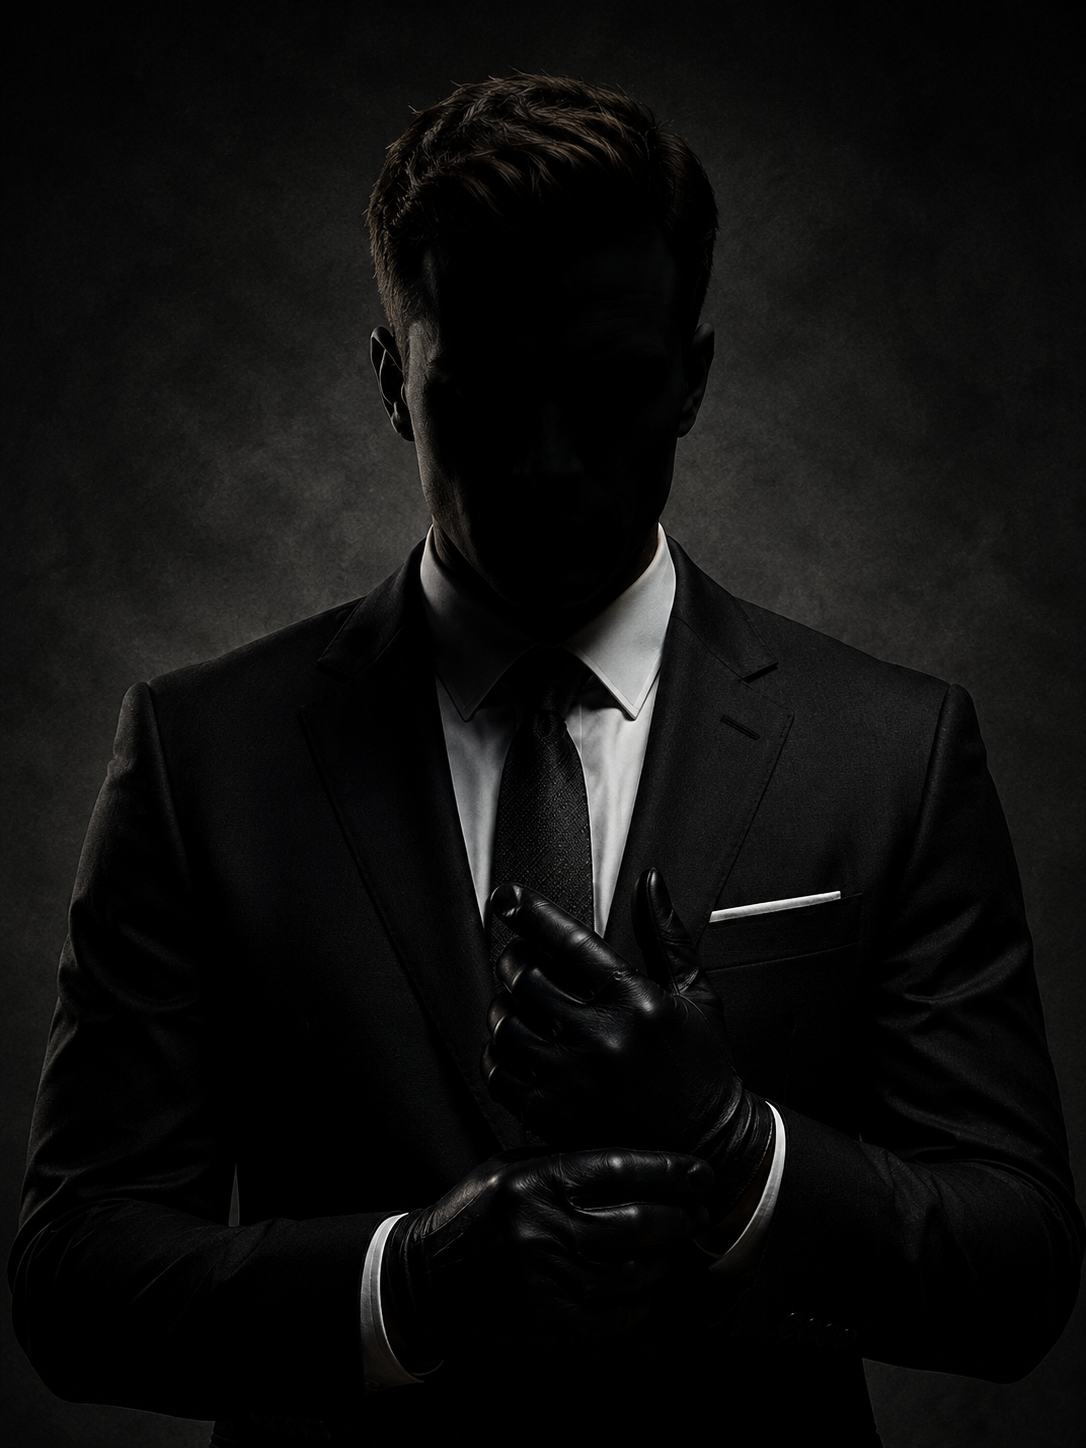
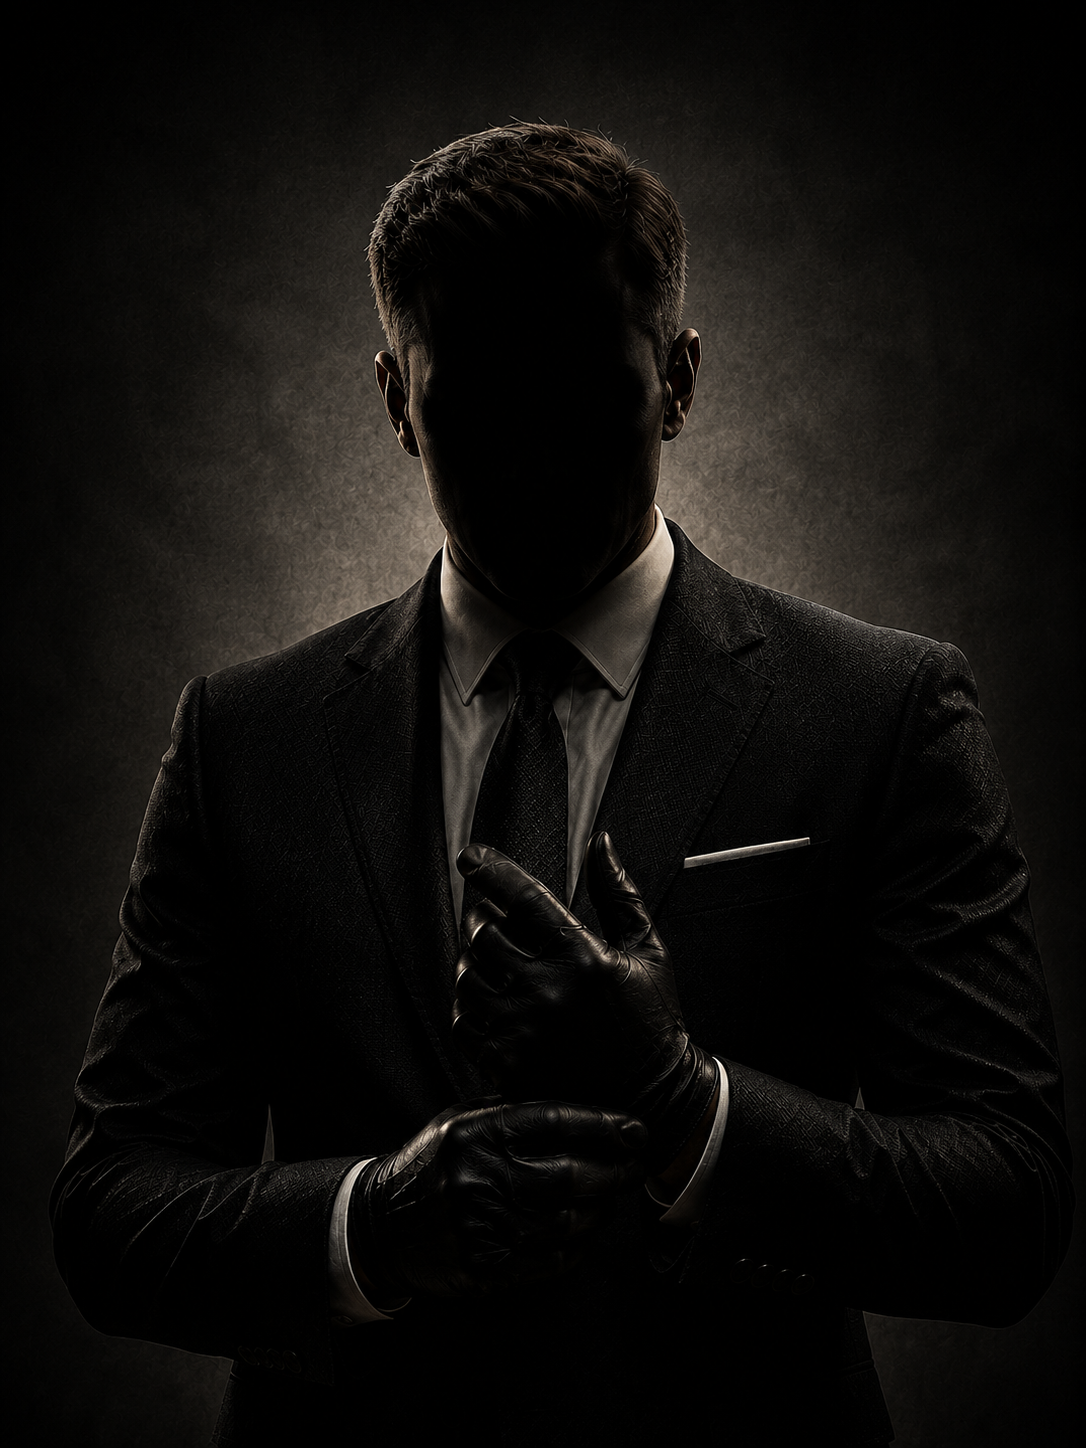
update postaci

diff --git a/components/CharacterCard.tsx b/components/CharacterCard.tsx
@@ -1,33 +1,52 @@
 "use client";
 
-import { Scale, Calendar } from "lucide-react";
+import { Calendar } from "lucide-react";
 import { seriesColors, seriesLabels } from "@/lib/catalog";
 import type { Character } from "@/lib/types";
+
+const seriesIcons: Record<string, string> = {
+  "Chylka": "/icons/chylka.svg",
+  "Forst": "/icons/forst.svg",
+  "Langer": "/icons/langer.svg",
+};
 
 interface CharacterCardProps {
   character: Character;
 }
 
 export function CharacterCard({ character }: CharacterCardProps) {
-  // Pobieramy dynamiczny kolor serii, aby kropka, rola i ikona pasowały do uniwersum
   const seriesId = (character.series as any) || "Chylka";
-  const brandColor = seriesColors[seriesId] || "#3b82f6"; // Domyślnie niebieski dla dopasowania z wizualizacją
+  const brandColor = seriesColors[seriesId] || "#00ff1a"; 
+
+  // Rozdzielenie imienia i nazwiska
+  const nameParts = character.name.split(" ");
+  const firstName = nameParts[0];
+  const lastName = nameParts.slice(1).join(" ");
 
   return (
     <div 
-      className="flex flex-col w-[220px] shrink-0 overflow-hidden rounded-xl bg-[#0f1115] border border-white/5 transition-transform duration-300 hover:scale-[1.02]"
-      style={{
-        boxShadow: `0 8px 32px rgba(0,0,0,0.6)`
-      }}
+      className="flex flex-col w-full shrink-0 overflow-hidden rounded-xl bg-[#0f1115] border border-white/5 transition-transform duration-300 hover:scale-[1.02]"
+      style={{ boxShadow: `0 8px 32px rgba(0,0,0,0.6)` }}
     >
-      {/* GÓRNA SEKCJA: Zdjęcie z gradientem i ikoną */}
       <div className="relative h-[260px] bg-[#1a1d24] flex items-center justify-center">
-        {/* Ikona w lewym górnym rogu */}
-        <div className="absolute top-4 left-4 z-20">
-          <Scale size={22} style={{ color: brandColor }} className="opacity-80" />
-        </div>
+        
+        {/* Ikona */}
+        {seriesIcons[seriesId] && (
+          <div 
+            className="absolute top-4 left-4 z-20 w-8 h-8 opacity-90"
+            style={{ 
+              backgroundColor: brandColor,
+              WebkitMaskImage: `url(${seriesIcons[seriesId]})`,
+              maskImage: `url(${seriesIcons[seriesId]})`,
+              WebkitMaskSize: 'contain',
+              maskSize: 'contain',
+              WebkitMaskRepeat: 'no-repeat',
+              maskRepeat: 'no-repeat',
+              filter: 'drop-shadow(0 0 2px rgba(0,0,0,0.8))'
+            }}
+          />
+        )}
 
-        {/* Miejsce na zdjęcie od Ciebie */}
         {character.avatar && character.avatar !== "" ? (
           <img 
             src={character.avatar} 
@@ -35,63 +54,73 @@ export function CharacterCard({ character }: CharacterCardProps) {
             className="absolute inset-0 z-10 h-full w-full object-cover"
           />
         ) : (
-          /* Fallback, gdyby postać nie miała jeszcze zdjęcia */
           <span className="relative z-10 font-mono text-5xl font-bold text-white/5">
             {character.name.charAt(0)}
           </span>
         )}
 
-        {/* Gradient płynnie łączący zdjęcie z czarnym tłem dolnej sekcji */}
         <div className="absolute inset-x-0 bottom-0 z-10 h-32 bg-gradient-to-t from-[#0f1115] to-transparent pointer-events-none" />
       </div>
 
-      {/* DOLNA SEKCJA: Informacje tekstowe */}
       <div className="relative z-20 flex flex-col px-4 pb-5 pt-0 text-center">
-        {/* Imię i nazwisko */}
-        <h3 className="text-xl font-bold text-white/95 uppercase tracking-wide">
-          {character.name}
-        </h3>
         
-        {/* Rola / Praca */}
-        <span 
-          className="mt-1 text-[11px] font-semibold uppercase tracking-wider"
-          style={{ color: brandColor }}
-        >
-          {character.role || "Brak danych"}
-        </span>
-
-        {/* Dolny wiersz z Serią i Debiutem */}
-        <div className="mt-6 flex items-end justify-between">
+        {/* TYPOGRAFIA POSTACI - SZTYWNY UKŁAD */}
+        <div className="flex flex-col items-center justify-start min-h-[76px]">
           
-          {/* Lewa strona: Seria */}
-          <div className="flex flex-col items-start gap-1.5">
-            <span className="text-[9px] text-white/40 uppercase tracking-widest">
-              Seria macierzysta
+          {/* 1. Imię i Nazwisko (Sztywna wysokość na max 2 linijki tekstu) */}
+          <div className="flex flex-col items-center justify-end min-h-[44px] mb-1">
+            <h3 className="flex flex-col text-[17px] sm:text-lg font-bold text-white/95 uppercase tracking-widest leading-[1.1]">
+              <span>{firstName}</span>
+              {lastName && <span>{lastName}</span>}
+            </h3>
+          </div>
+          
+          {/* 2. Pseudonim (Zawsze renderowany, przezroczysty jeśli go brak) */}
+          <span 
+            className={`text-[10px] font-medium tracking-widest uppercase mb-1 ${
+              character.pseudonym ? "text-white/50" : "opacity-0 select-none"
+            }`}
+          >
+            {character.pseudonym ? `"${character.pseudonym}"` : '"BRAK"'}
+          </span>
+
+          {/* 3. Rola (Kolorowa, zawsze na tej samej wysokości) */}
+          <span 
+            className="text-[10px] font-bold uppercase tracking-widest mt-0.5"
+            style={{ color: brandColor }}
+          >
+            {character.role || "Brak danych"}
+          </span>
+        </div>
+
+        {/* DOLNE METADANE (Seria i Debiut) */}
+        <div className="mt-5 flex items-end justify-between">
+          <div className="flex flex-col items-start gap-1.5 w-1/2">
+            <span className="text-[8px] sm:text-[9px] text-white/40 uppercase tracking-widest truncate w-full text-left">
+              Seria
             </span>
-            <div className="flex items-center gap-1.5">
+            <div className="flex items-center gap-1.5 w-full">
               <span 
-                className="h-2.5 w-2.5 rounded-full"
+                className="h-2 w-2 sm:h-2.5 sm:w-2.5 rounded-full shrink-0"
                 style={{ backgroundColor: brandColor }}
               />
-              <span className="text-xs font-semibold text-white/90 uppercase tracking-wider">
+              <span className="text-[10px] sm:text-xs font-semibold text-white/90 uppercase tracking-wider truncate">
                 {seriesLabels[seriesId] || character.series}
               </span>
             </div>
           </div>
 
-          {/* Prawa strona: Debiut */}
-          <div className="flex flex-col items-end gap-1.5">
-            <span className="text-[9px] text-white/40 uppercase tracking-widest">
+          <div className="flex flex-col items-end gap-1.5 w-1/2">
+            <span className="text-[8px] sm:text-[9px] text-white/40 uppercase tracking-widest truncate w-full text-right">
               Debiut
             </span>
-            <div className="flex items-center gap-1.5">
-              <Calendar size={14} className="text-white/60 mb-0.5" />
-              <span className="text-xs font-semibold text-white/90 uppercase tracking-wider">
+            <div className="flex items-center gap-1.5 w-full justify-end">
+              <Calendar size={12} className="text-white/60 shrink-0" />
+              <span className="text-[10px] sm:text-xs font-semibold text-white/90 uppercase tracking-wider truncate">
                 {character.debut || "Nieznany"}
               </span>
             </div>
           </div>
-
         </div>
       </div>
     </div>

diff --git a/components/BookDetailsPanel.tsx b/components/BookDetailsPanel.tsx
@@ -1,14 +1,12 @@
 "use client";
 
 import { useEffect, useState, useMemo } from "react";
-import { BookOpen, Link2, ShieldCheck, X, Users } from "lucide-react";
-import { relationColors, relationLabels, seriesLabels } from "@/lib/catalog";
+import { X, Users } from "lucide-react";
+import { seriesLabels } from "@/lib/catalog";
 import type { Book, BookConnection, Character } from "@/lib/types";
 import { CharacterCard } from "@/components/CharacterCard";
-
-// Importujemy dane bezpośrednio tutaj dla wygody - lub przekaż je jako propsy z page.tsx
 import charactersData from "@/data/characters.json";
-import appearancesData from "@/data/appearances.json";
+import { appearancesData } from "@/data/appearances";
 
 type BookDetailsPanelProps = {
   book: Book | null;
@@ -27,98 +25,78 @@ export function BookDetailsPanel({
   onSelectBook,
   onUpdateCover
 }: BookDetailsPanelProps) {
-  const [coverDraft, setCoverDraft] = useState("");
-
-  useEffect(() => {
-    setCoverDraft(book?.cover ?? "");
-  }, [book?.cover]);
-
-  // Logika filtrowania postaci dla danej książki
+  
   const relatedCharacters = useMemo(() => {
     if (!book) return [];
-    // Znajdź IDs postaci, które występują w tej książce
     const appearanceIds = appearancesData
       .filter((a) => a.bookId === book.id)
       .map((a) => a.characterId);
-    
-    // Zwróć pełne obiekty postaci
     return charactersData.filter((c) => appearanceIds.includes(c.id)) as Character[];
   }, [book]);
 
   const relatedConnections = book
-    ? connections.filter(
-        (connection) => connection.source === book.id || connection.target === book.id
-      )
+    ? connections.filter((connection) => connection.source === book.id || connection.target === book.id)
     : [];
 
   const findBook = (bookId: string) => books.find((item) => item.id === bookId);
 
   return (
     <aside
-      className={`fixed inset-y-0 right-0 z-30 w-full max-w-[420px] border-l border-white/10 bg-[#090a0f]/96 shadow-2xl shadow-black/60 backdrop-blur-xl transition-transform duration-300 ${
+      className={`fixed inset-y-0 right-0 z-30 w-1/2 min-w-[520px] max-w-[960px] border-l border-white/10 bg-[#090a0f]/96 shadow-2xl shadow-black/60 backdrop-blur-xl transition-transform duration-300 ${
         book ? "translate-x-0" : "translate-x-full"
       }`}
     >
       {book ? (
         <div className="flex h-full flex-col">
-          <div className="flex items-center justify-between border-b border-white/10 px-5 py-4">
+          <div className="flex items-center justify-between border-b border-white/10 px-6 py-5">
             <div>
               <p className="text-xs uppercase tracking-[0.2em] text-white/42">Karta książki</p>
               <h2 className="mt-1 text-xl font-semibold text-white">{book.title}</h2>
             </div>
-            <button
-              type="button"
-              onClick={onClose}
-              className="grid h-9 w-9 place-items-center border border-white/10 bg-white/[0.04] text-white/70 hover:text-white"
-              style={{ borderRadius: 8 }}
-            >
+            <button type="button" onClick={onClose} className="grid h-9 w-9 place-items-center border border-white/10 bg-white/[0.04] text-white/70 hover:text-white" style={{ borderRadius: 8 }}>
               <X size={18} />
             </button>
           </div>
 
-          <div className="min-h-0 flex-1 overflow-y-auto px-5 py-5">
-            {/* OKŁADKA I DANE */}
-            <div className="grid grid-cols-[128px_1fr] gap-4">
+          <div className="min-h-0 flex-1 overflow-y-auto px-6 py-6">
+            <div className="grid grid-cols-[128px_1fr] gap-6">
+              {/* Okładka */}
               <div className="relative h-[184px] overflow-hidden border border-white/10 bg-[#141620]" style={{ borderRadius: 8 }}>
                 <img src={book.cover} alt={book.title} className="h-full w-full object-cover" />
               </div>
-              <dl className="space-y-3 text-sm">
-                <div>
-                  <dt className="text-white/40">Seria</dt>
-                  <dd className="font-medium text-white">{seriesLabels[book.series]}</dd>
+              
+              {/* Układ: Dane (lewo) | Opis (prawo) */}
+              <div className="grid grid-cols-[auto_1fr] gap-8">
+                {/* Seria i Rok */}
+                <dl className="flex flex-col gap-4 text-sm whitespace-nowrap">
+                  <div>
+                    <dt className="text-white/40">Seria</dt>
+                    <dd className="font-medium text-white">{seriesLabels[book.series]}</dd>
+                  </div>
+                  <div>
+                    <dt className="text-white/40">Rok</dt>
+                    <dd className="font-mono text-white">{book.year ?? "brak"}</dd>
+                  </div>
+                </dl>
+
+                {/* Opis */}
+                <div className="rounded-xl border border-white/10 bg-white/[0.03] p-4 text-sm leading-6 text-white/80">
+                  <h3 className="mb-2 text-xs font-semibold uppercase tracking-[0.1em] text-white/40">Opis</h3>
+                  {book.description}
                 </div>
-                <div>
-                  <dt className="text-white/40">Rok</dt>
-                  <dd className="font-mono text-white">{book.year ?? "brak"}</dd>
-                </div>
-              </dl>
+              </div>
             </div>
 
-            {/* OPIS */}
-            <section className="mt-6">
-              <h3 className="text-sm font-semibold uppercase text-white/44">Opis</h3>
-              <p className="mt-3 text-sm leading-6 text-white/72">{book.description}</p>
-            </section>
-
-            {/* POSTACIE */}
-            <section className="mt-7">
-              <h3 className="text-sm font-semibold uppercase text-white/44 mb-3 flex items-center gap-2">
-                <Users size={15} /> Postacie
+            {/* Postacie */}
+            <section className="mt-9">
+              <h3 className="text-sm font-semibold uppercase text-white/44 mb-4 flex items-center gap-2">
+                <Users size={15} /> Postacie ({relatedCharacters.length})
               </h3>
-              <div className="space-y-2">
+              <div className="grid grid-cols-3 gap-4">
                 {relatedCharacters.map((char) => (
                   <CharacterCard key={char.id} character={char} />
                 ))}
               </div>
-            </section>
-
-            {/* POWIĄZANE KSIĄŻKI */}
-            <section className="mt-7">
-              <h3 className="text-sm font-semibold uppercase text-white/44">Powiązane</h3>
-              {relatedConnections.map((conn) => {
-                const b = findBook(conn.source === book.id ? conn.target : conn.source);
-                return b ? <div key={b.id} className="mt-2 text-white/60 text-sm">{b.title}</div> : null;
-              })}
             </section>
           </div>
         </div>

diff --git a/data/appearances/index.ts b/data/appearances/index.ts
@@ -1,0 +1,13 @@
+// Importujesz TYLKO te pliki, które faktycznie istnieją w folderach!
+import kasacja from './chylka/kasacja.json';
+import zaginiecie from './chylka/zaginiecie.json';
+// import ekspozycja from './forst/ekspozycja.json';    <-- zakomentowane
+// import langer from './langer/langer.json';           <-- zakomentowane
+
+export const appearancesData = [
+  ...kasacja.map((char: any) => ({ ...char, bookId: 'kasacja' })),
+  ...zaginiecie.map((char: any) => ({ ...char, bookId: 'zaginiecie' })),
+  // Te odkomentujesz dopiero, jak dodasz ich pliki .json:
+  // ...ekspozycja.map((char: any) => ({ ...char, bookId: 'ekspozycja' })),
+  // ...langer.map((char: any) => ({ ...char, bookId: 'langer' })),
+];

diff --git a/components/MrozoversumMap.tsx b/components/MrozoversumMap.tsx
@@ -414,23 +414,18 @@ function ConnectionDetailsSidebar({
   if (!connection || !source || !target) return null;
   
   const title = connection.type === "crossover" ? "Crossover" : connection.type === "kontynuacja" ? "Kontynuacja" : "Wzmianka";
-  
   const involvedCharacters = connection.characters 
     ? allCharacters.filter(char => connection.characters!.includes(char.id)) 
     : [];
 
   return (
-    <aside className="fixed inset-y-0 right-0 z-50 flex w-full max-w-md flex-col border-l border-white/10 bg-[#090a0f]/95 shadow-2xl backdrop-blur-xl transition-transform sm:w-[480px]">
+    <aside className="fixed inset-y-0 right-0 z-50 flex w-1/2 min-w-[520px] max-w-[960px] flex-col border-l border-white/10 bg-[#090a0f]/95 shadow-2xl backdrop-blur-xl transition-transform">
       <header className="flex items-center justify-between border-b border-white/10 px-6 py-5">
         <div>
           <p className="text-xs uppercase tracking-[0.22em] text-rose-400">{title}</p>
           <h2 className="mt-1 text-xl font-semibold text-white">{target.title} → {source.title}</h2>
         </div>
-        <button 
-          type="button" 
-          onClick={onClose} 
-          className="flex h-10 w-10 items-center justify-center rounded-full bg-white/5 text-white/60 transition hover:bg-white/10 hover:text-white"
-        >
+        <button type="button" onClick={onClose} className="flex h-10 w-10 items-center justify-center rounded-full bg-white/5 text-white/60 transition hover:bg-white/10 hover:text-white">
           <X size={20} />
         </button>
       </header>
@@ -440,14 +435,13 @@ function ConnectionDetailsSidebar({
           {connection.note || "Brak szczegółowego opisu dla tego powiązania."}
         </div>
 
-        {/* Sekcja Kart Postaci */}
         {involvedCharacters.length > 0 && (
           <div className="mt-8">
             <h3 className="mb-4 text-xs font-semibold uppercase tracking-[0.2em] text-white/40">
               Powiązane postacie ({involvedCharacters.length})
             </h3>
             
-            <div className="flex flex-col gap-3">
+            <div className="grid grid-cols-3 gap-4">
               {involvedCharacters.map(char => (
                 <CharacterCard key={char.id} character={char} />
               ))}

diff --git a/lib/catalog.ts b/lib/catalog.ts
@@ -14,7 +14,7 @@ export const seriesOrder: SeriesId[] = [
 
 export const seriesColors: Record<SeriesId, string> = {
   Chylka: "#ff7300",
-  Forst: "#38bdf8",
+  Forst: "#66d5fd",
   Langer: "#ff0000",
 };
 